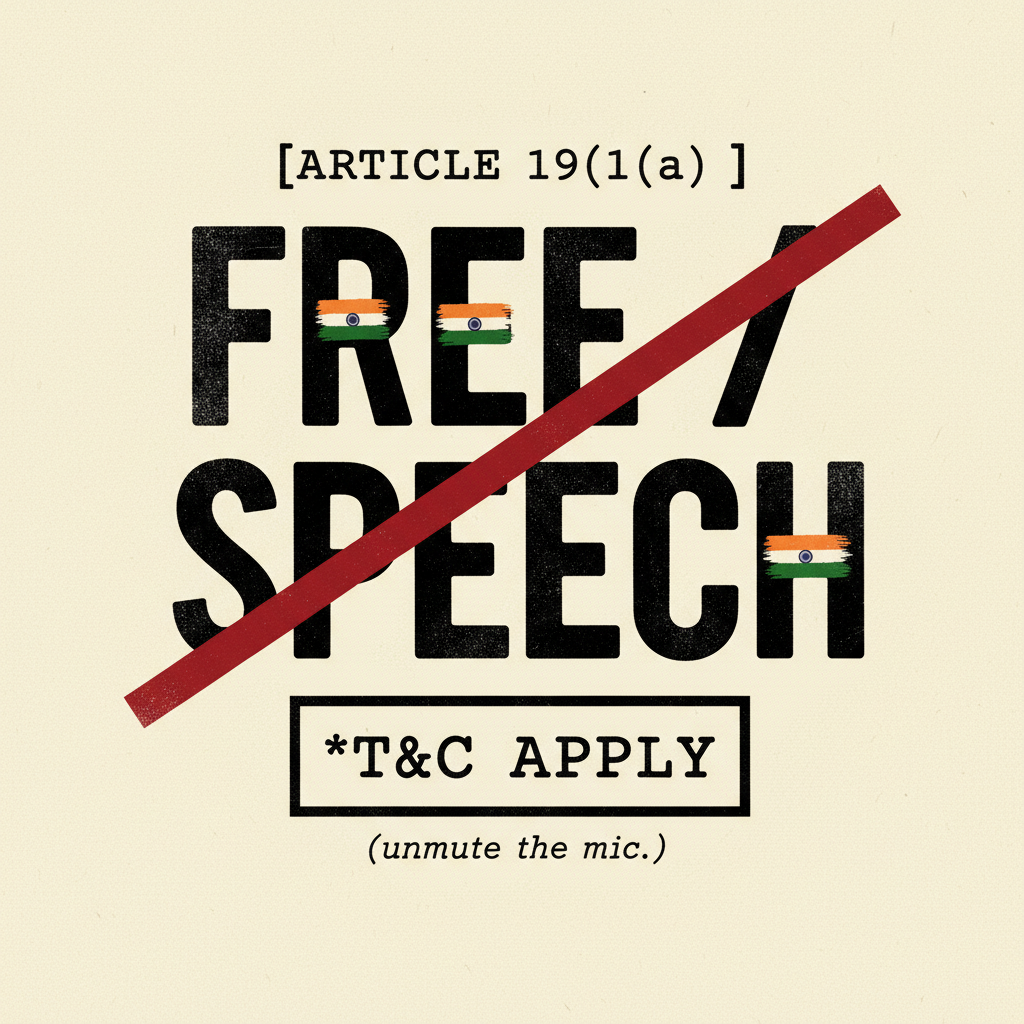
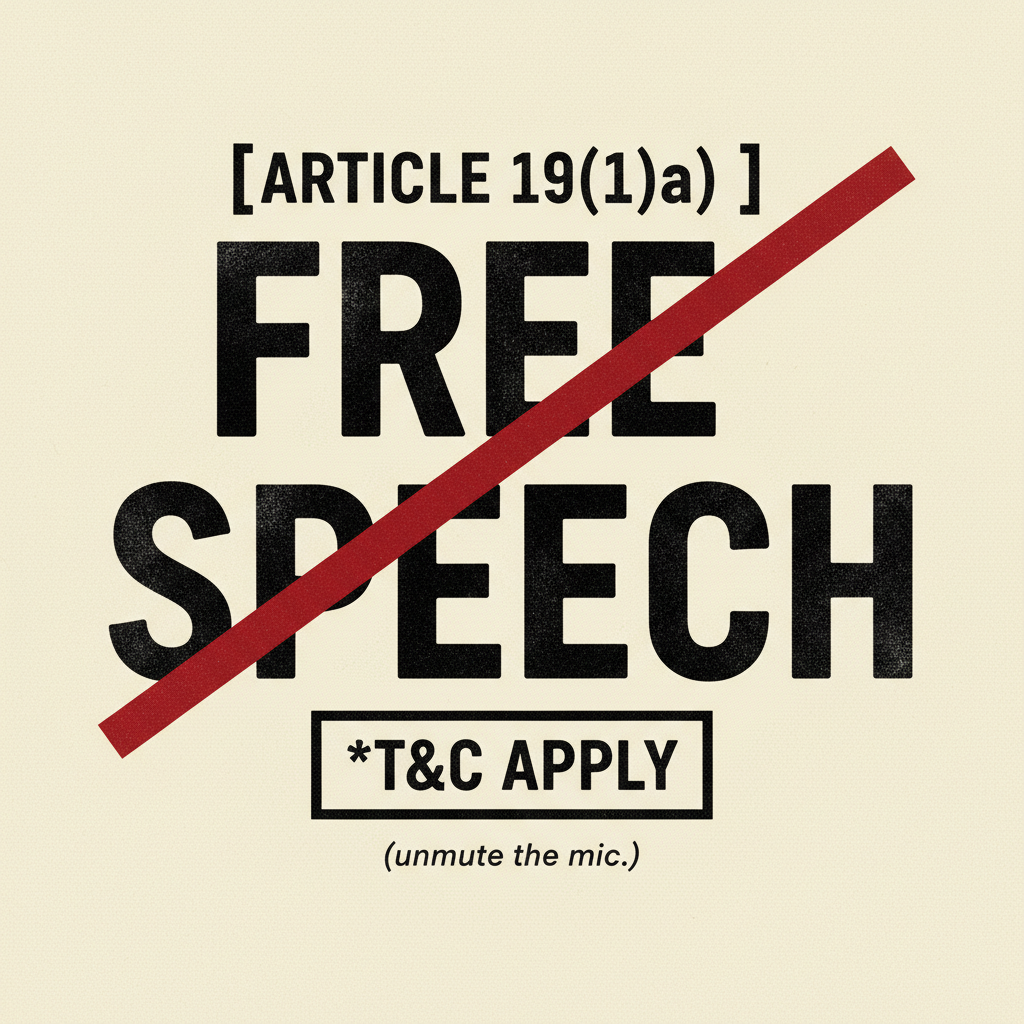
Pull Unemployed by Profession; regenerate Manifesto and Unmute Mic without flag elements

Changed region(s): [[0.0938, 0.125, 0.9062, 0.8438]]

diff --git a/lib/products.ts b/lib/products.ts
@@ -73,17 +73,6 @@ export const PRODUCTS: TeeDesign[] = [
     featured: true,
   },
   {
-    slug: 'unemployed-by-profession',
-    name: 'Unemployed by Profession',
-    subtitle: 'The Card',
-    description: 'Designed like a business card. Add your own name and years of nothing. Hand it out at family functions.',
-    price: 549,
-    tagline: 'PROFESSIONAL CREDENTIALS',
-    colors: STANDARD_COLORS,
-    designType: 'card',
-    personalizable: true,
-  },
-  {
     slug: 'apocalypse-no-job',
     name: 'Will Survive the Apocalypse, Still Won\'t Get a Job',
     subtitle: 'The Thesis',